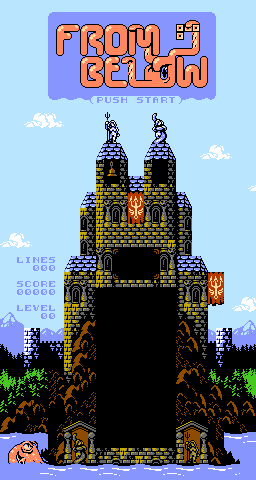
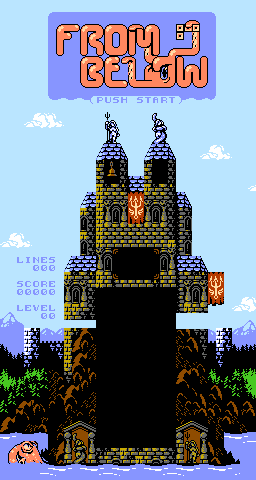
* Displaying lines cleared. Appears that font is not getting fully loaded due to tileset using too many sprites. Seems fixable with more final background. * Fixed warning about oam_spr going out of range by simply changing params to 16 bit (not sure why it matters since nothing is passing larger tha

Changed region(s): [[0.6875, 0.625, 0.8125, 0.6875], [0.25, 0.6562, 0.375, 0.6875]]

diff --git a/gb/src/StateFromBelow.c b/gb/src/StateFromBelow.c
@@ -2902,7 +2902,7 @@ void go_to_state(unsigned char new_state)
 				scroll_y_game = 306;
 				scroll(scroll_x_camera, scroll_y_game);
 
-				UPDATE_TILE(0,0,&test_bg_tile,0);
+				//UPDATE_TILE(0,0,&test_bg_tile,0);
 
 				// Spawn "next"
 				spawn_new_cluster();
@@ -3192,9 +3192,25 @@ void inc_lines_cleared()
 
 void display_lines_cleared()
 {
-	one_vram_buffer('0' + lines_cleared_hundred, get_ppu_addr(cur_nt,4<<3,3<<3));
-	one_vram_buffer('0' + lines_cleared_ten, get_ppu_addr(cur_nt,5<<3,3<<3));
-	one_vram_buffer('0' + lines_cleared_one, get_ppu_addr(cur_nt,6<<3,3<<3));
+	//static unsigned char* text;
+
+	//UPDATE_TILE_BY_VALUE(4,3,0,0);
+	//UIntToString(lines_cleared_hundred, text);
+	//PRINT(4,1,text);
+	PRINT(23,7, "LINES");
+	PRINT_POS(23,8);
+	Printf("%d", lines_cleared_hundred);
+	PRINT_POS(24,8);
+	Printf("%d", lines_cleared_ten);
+	PRINT_POS(25,8);
+	Printf("%d", lines_cleared_one);
+
+	//UPDATE_TILE_BY_VALUE(4,3,'0' + lines_cleared_hundred,0);
+	//UPDATE_TILE_BY_VALUE(5,3,'0' + lines_cleared_ten,0);
+	//UPDATE_TILE_BY_VALUE(6,3,'0' + lines_cleared_one,0);
+	// one_vram_buffer('0' + lines_cleared_hundred, get_ppu_addr(cur_nt,4<<3,3<<3));
+	// one_vram_buffer('0' + lines_cleared_ten, get_ppu_addr(cur_nt,5<<3,3<<3));
+	// one_vram_buffer('0' + lines_cleared_one, get_ppu_addr(cur_nt,6<<3,3<<3));
 }
 
 void display_score()

diff --git a/gb/src/LIB/neslib.h b/gb/src/LIB/neslib.h
@@ -107,7 +107,8 @@ void oam_clear(void) { }
 // //set sprite in OAM buffer, chrnum is tile, attr is attribute
 // // Note: sprid removed for speed
 
-void oam_spr(unsigned char x,unsigned char y,unsigned char chrnum,unsigned char attr) { (void)x; (void)y; (void)chrnum; (void)attr; }
+// using 8bit number gives "warning 158: overflow in implicit constant conversion"
+void oam_spr(UINT16 x,UINT16 y,UINT16 chrnum,UINT16 attr) { (void)x; (void)y; (void)chrnum; (void)attr; }
 
 
 
